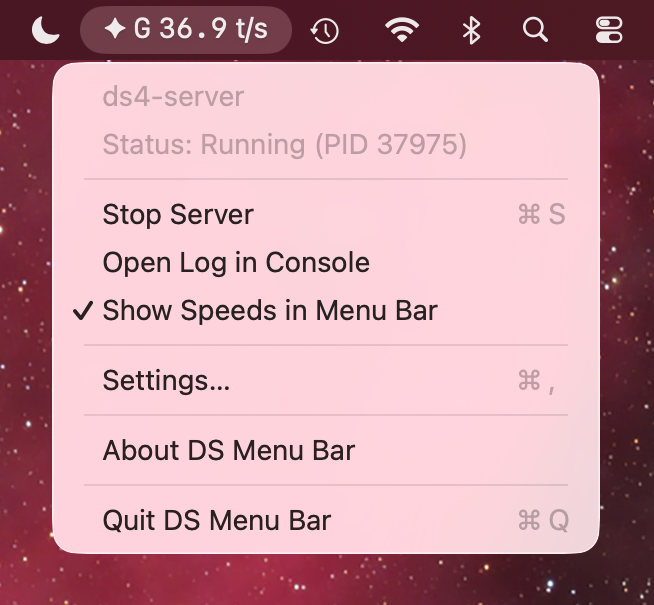
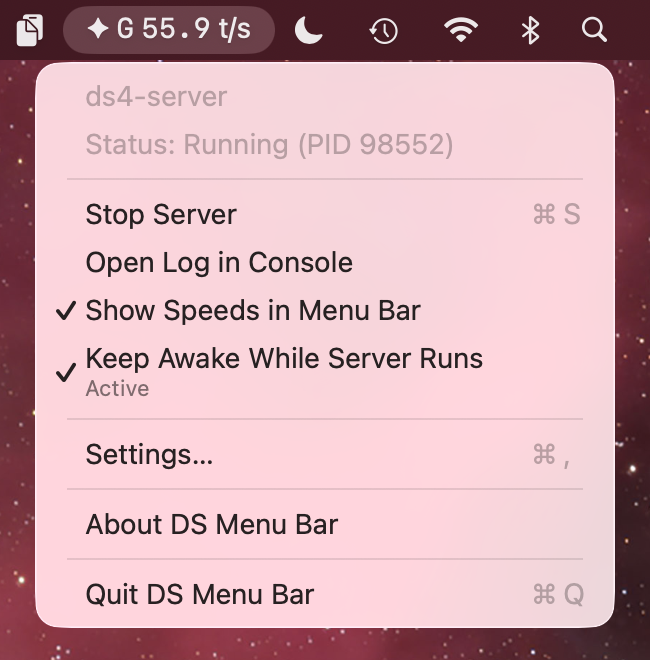
docs: show keep-awake menu item

diff --git a/README.md b/README.md
@@ -17,7 +17,7 @@ DS Menu Bar manages one Metal server on the Mac where the app is running. It
 does not manage remote, distributed, Linux, CUDA, or ROCm servers.
 
 <p align="center">
-  <img src="docs/images/menu-bar-menu.png" width="327" alt="DS Menu Bar menu showing generation speed in the menu bar, server status, and controls">
+  <img src="docs/images/menu-bar-menu.png" width="325" alt="DS Menu Bar menu showing generation speed, server status, and the Keep Awake While Server Runs control">
 </p>
 
 ## What it does
